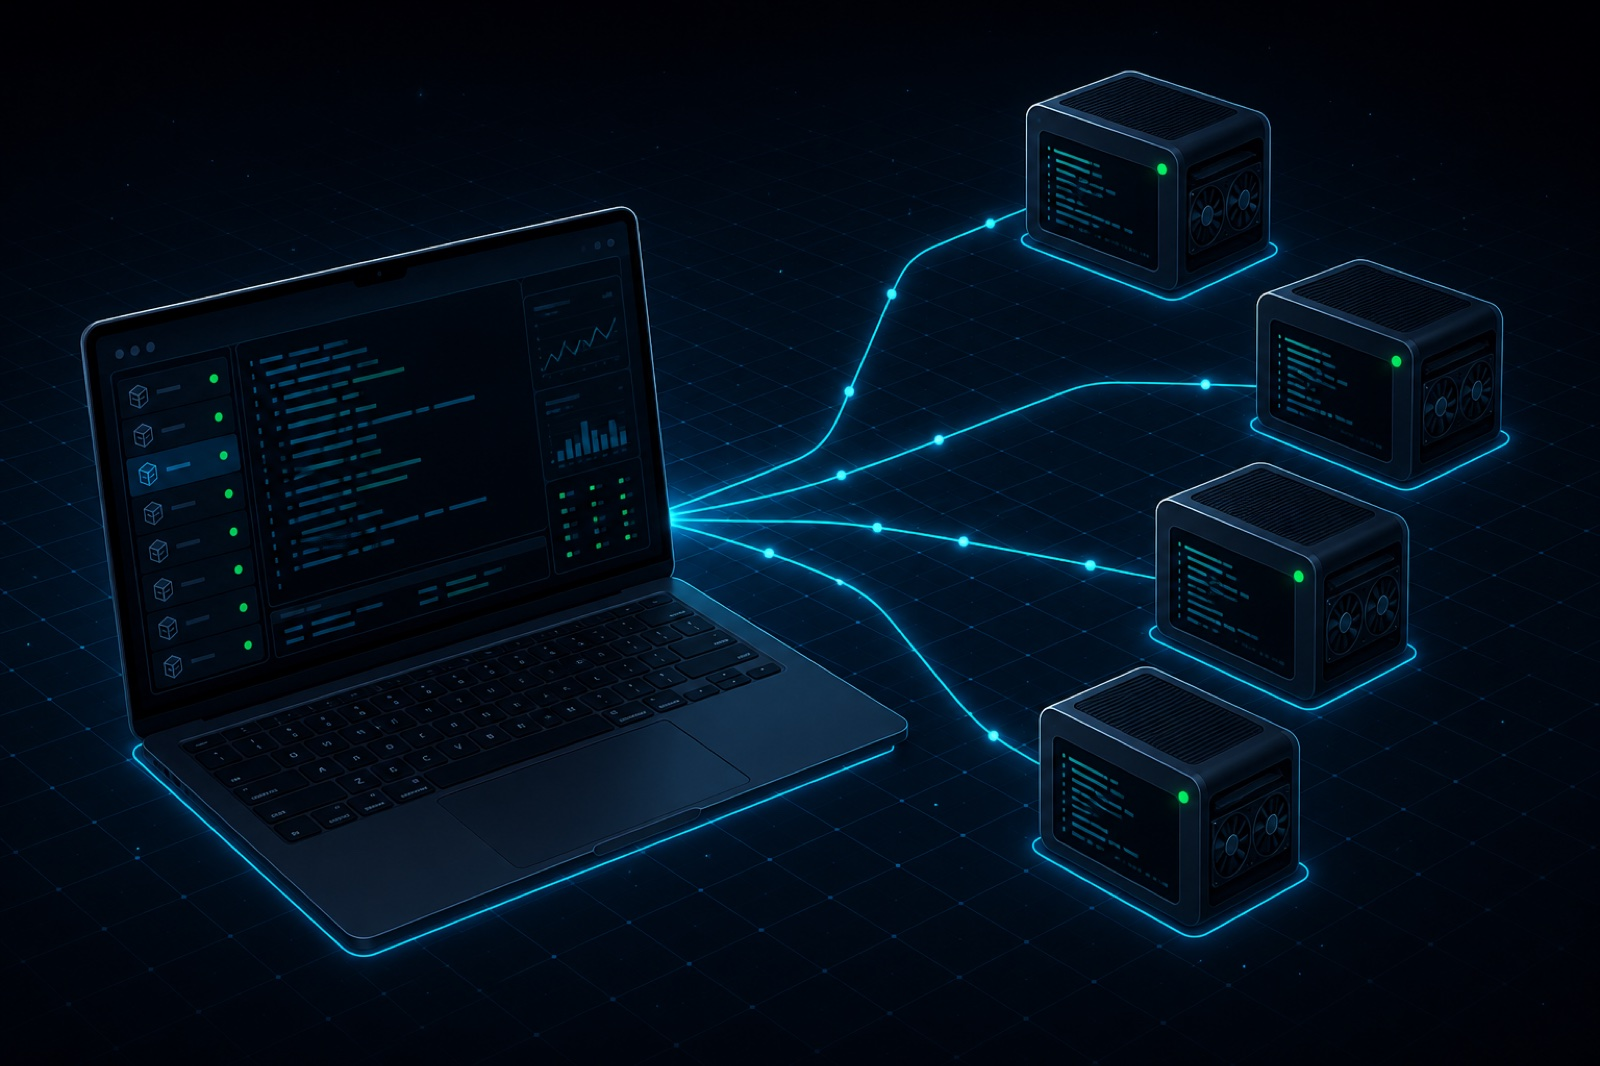
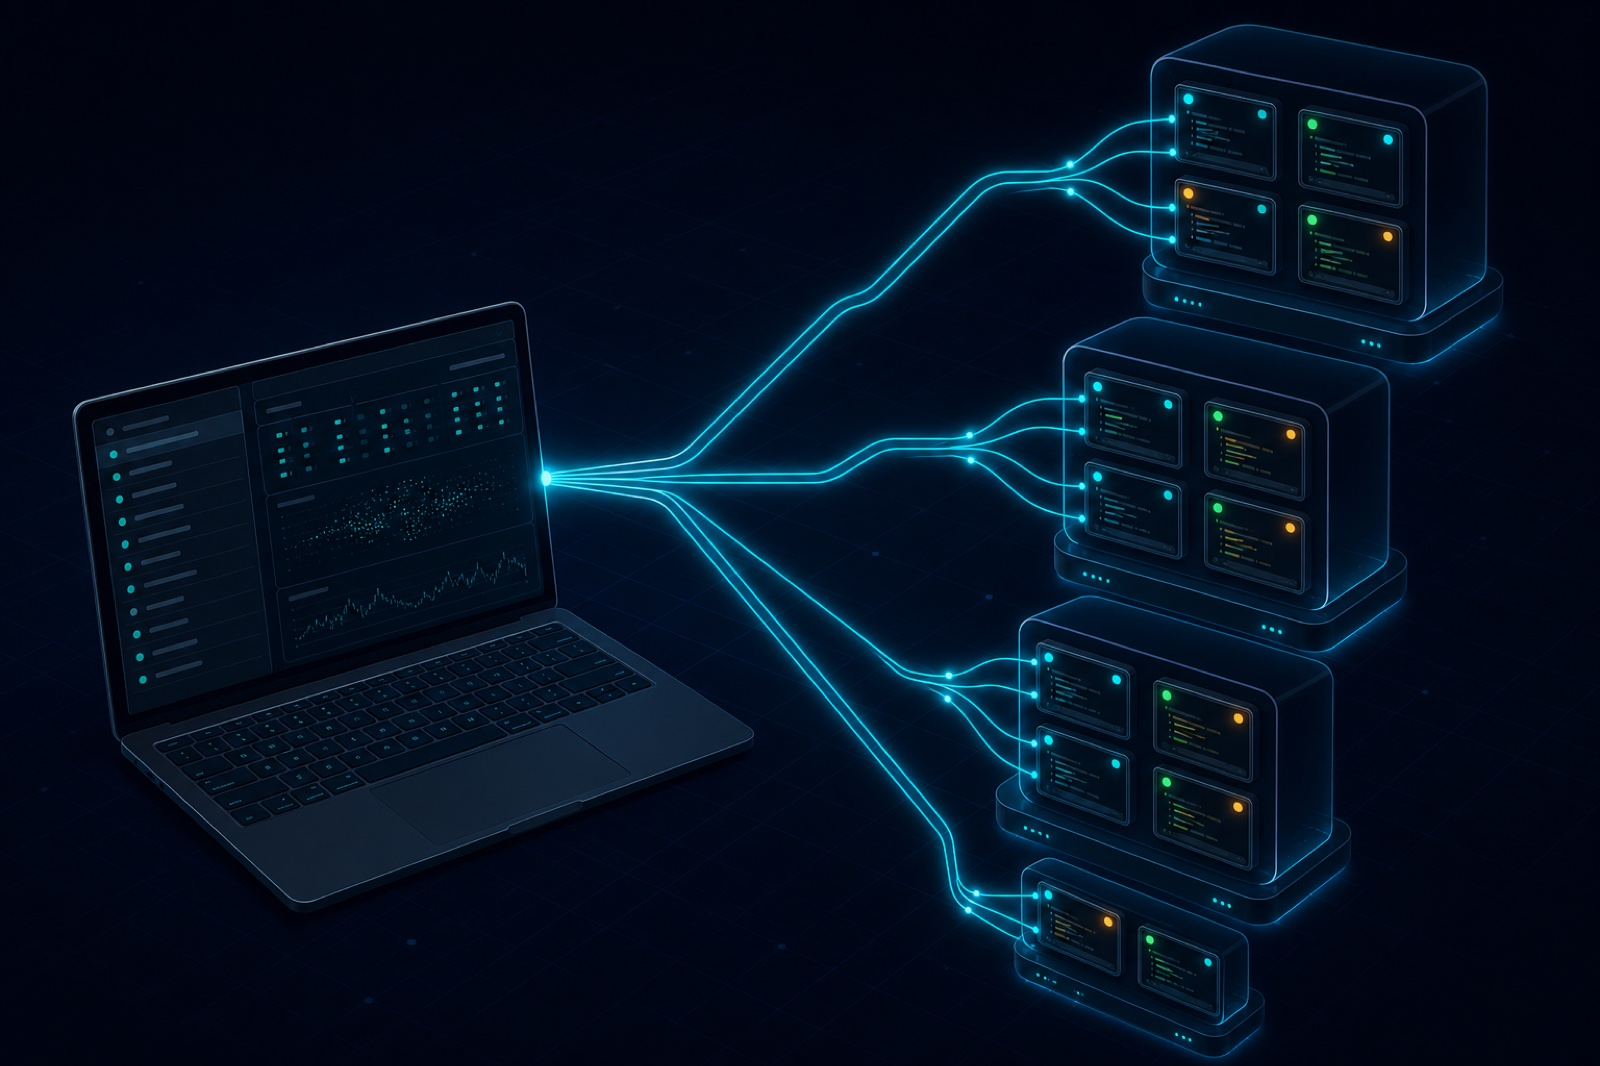
Make hero artwork agent-native
The previous banner showed one laptop linked to bare clusters; the new
artwork shows the actual hierarchy of the tool — one terminal, several
cluster nodes, and multiple agent sessions running inside each node.
Variant A (agent grids in glass nodes) is the README banner, variant B
(hex pods with agent cores) fronts the landing page.

Changed region(s): [[0.0312, 0.0, 0.9688, 1.0], [0.375, 0.2786, 0.4062, 0.3715], [0.9062, 0.0619, 0.9375, 0.0929]]

diff --git a/docs/index.html b/docs/index.html
@@ -7,7 +7,7 @@
 <meta name="description" content="A dependency-free TUI for tmux sessions spread across SSH hosts. Discover, attach, and manage remote agent sessions from one terminal window.">
 <meta property="og:title" content="clustermux — one terminal, every cluster">
 <meta property="og:description" content="A dependency-free TUI for tmux sessions spread across SSH hosts.">
-<meta property="og:image" content="assets/clustermux-hero.jpg">
+<meta property="og:image" content="assets/clustermux-hero-agents.jpg">
 <link rel="icon" type="image/png" href="assets/clustermux-logo.png">
 <style>
   :root {
@@ -286,7 +286,7 @@
       <button class="copy-btn" data-copy="pipx install clustermux">copy</button>
     </div>
     <div class="hero-figure">
-      <img src="assets/clustermux-hero.jpg" alt="One workstation driving tmux agent sessions across a fleet of SSH hosts">
+      <img src="assets/clustermux-hero-agents.jpg" alt="One terminal orchestrating many AI agents across multiple compute clusters">
     </div>
   </div>
 </header>
